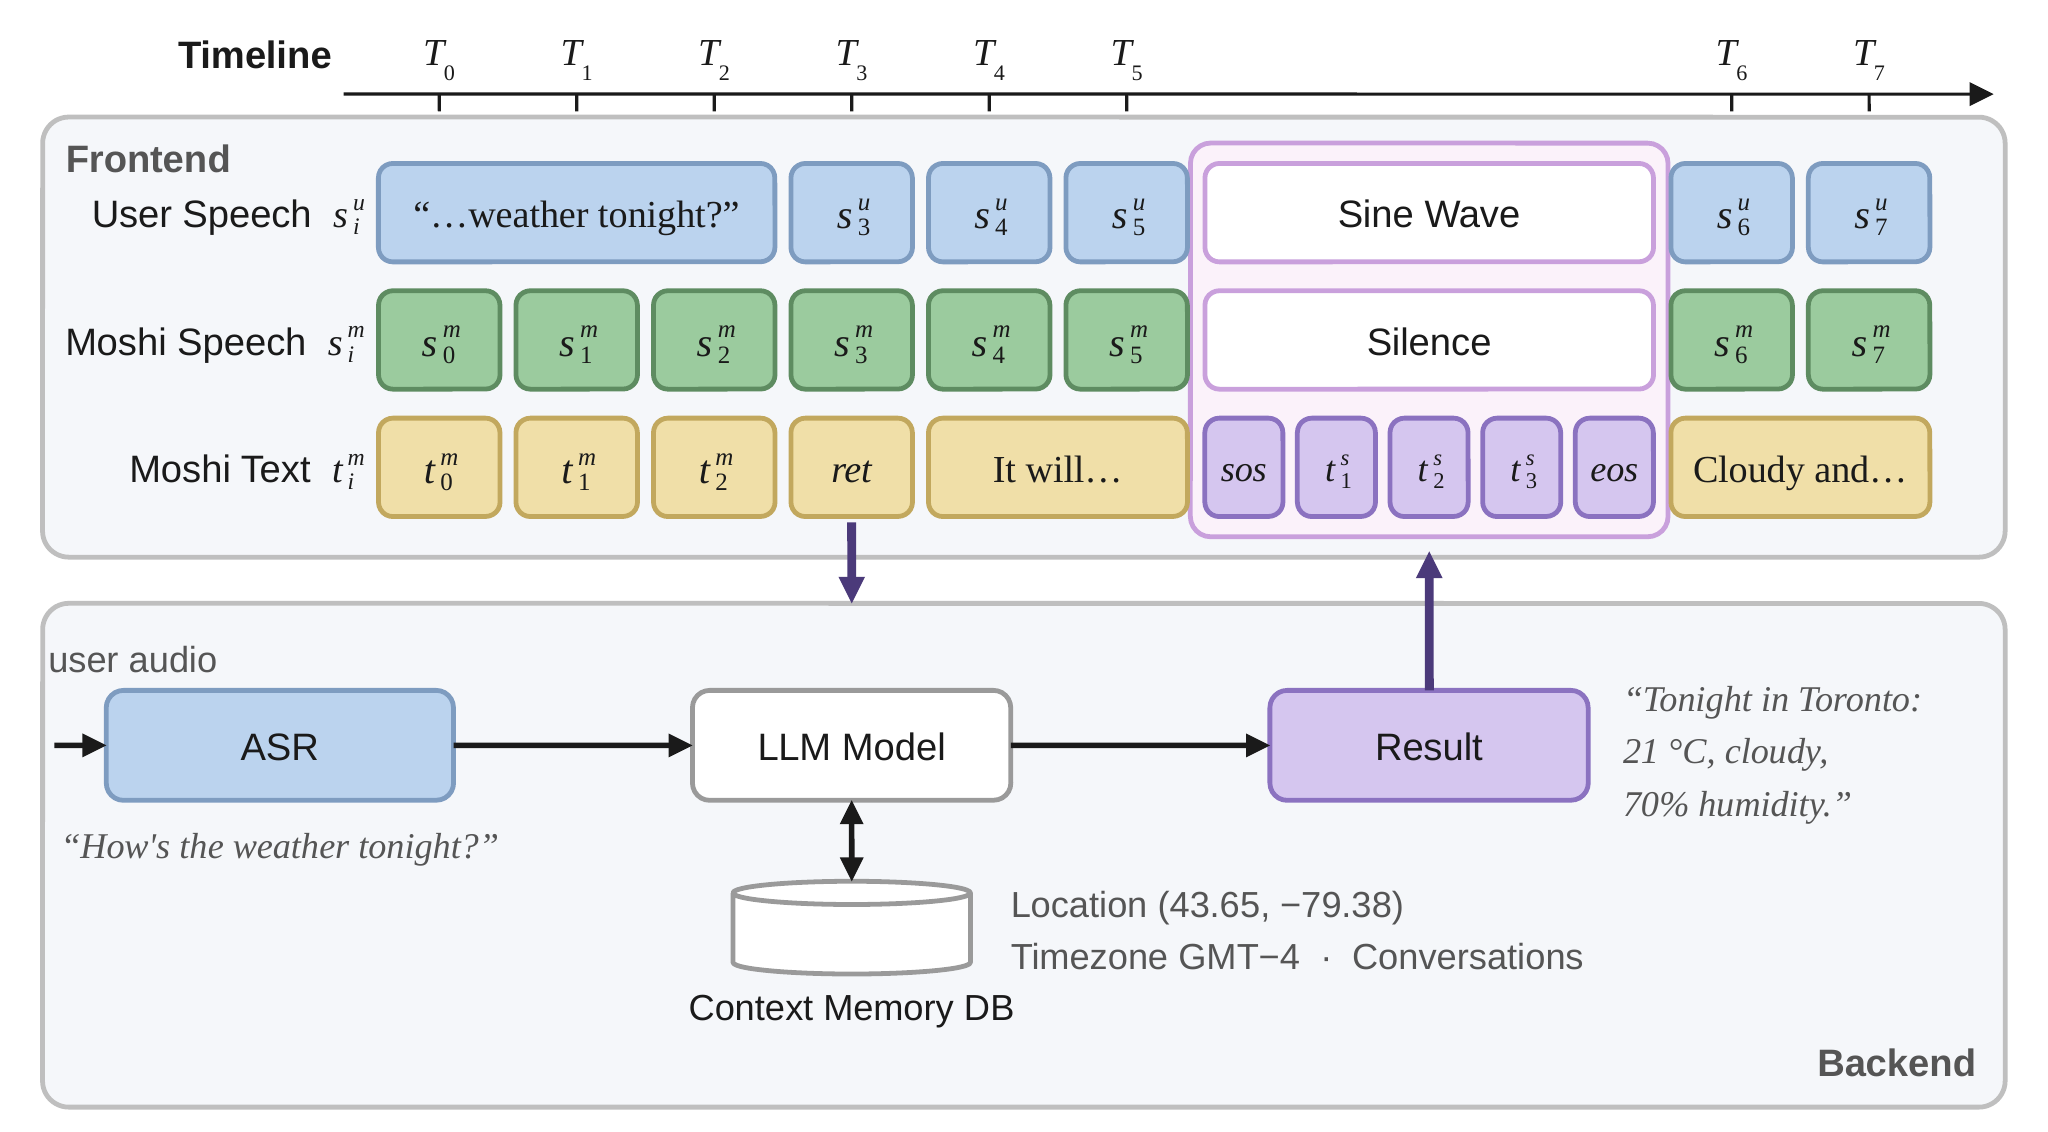
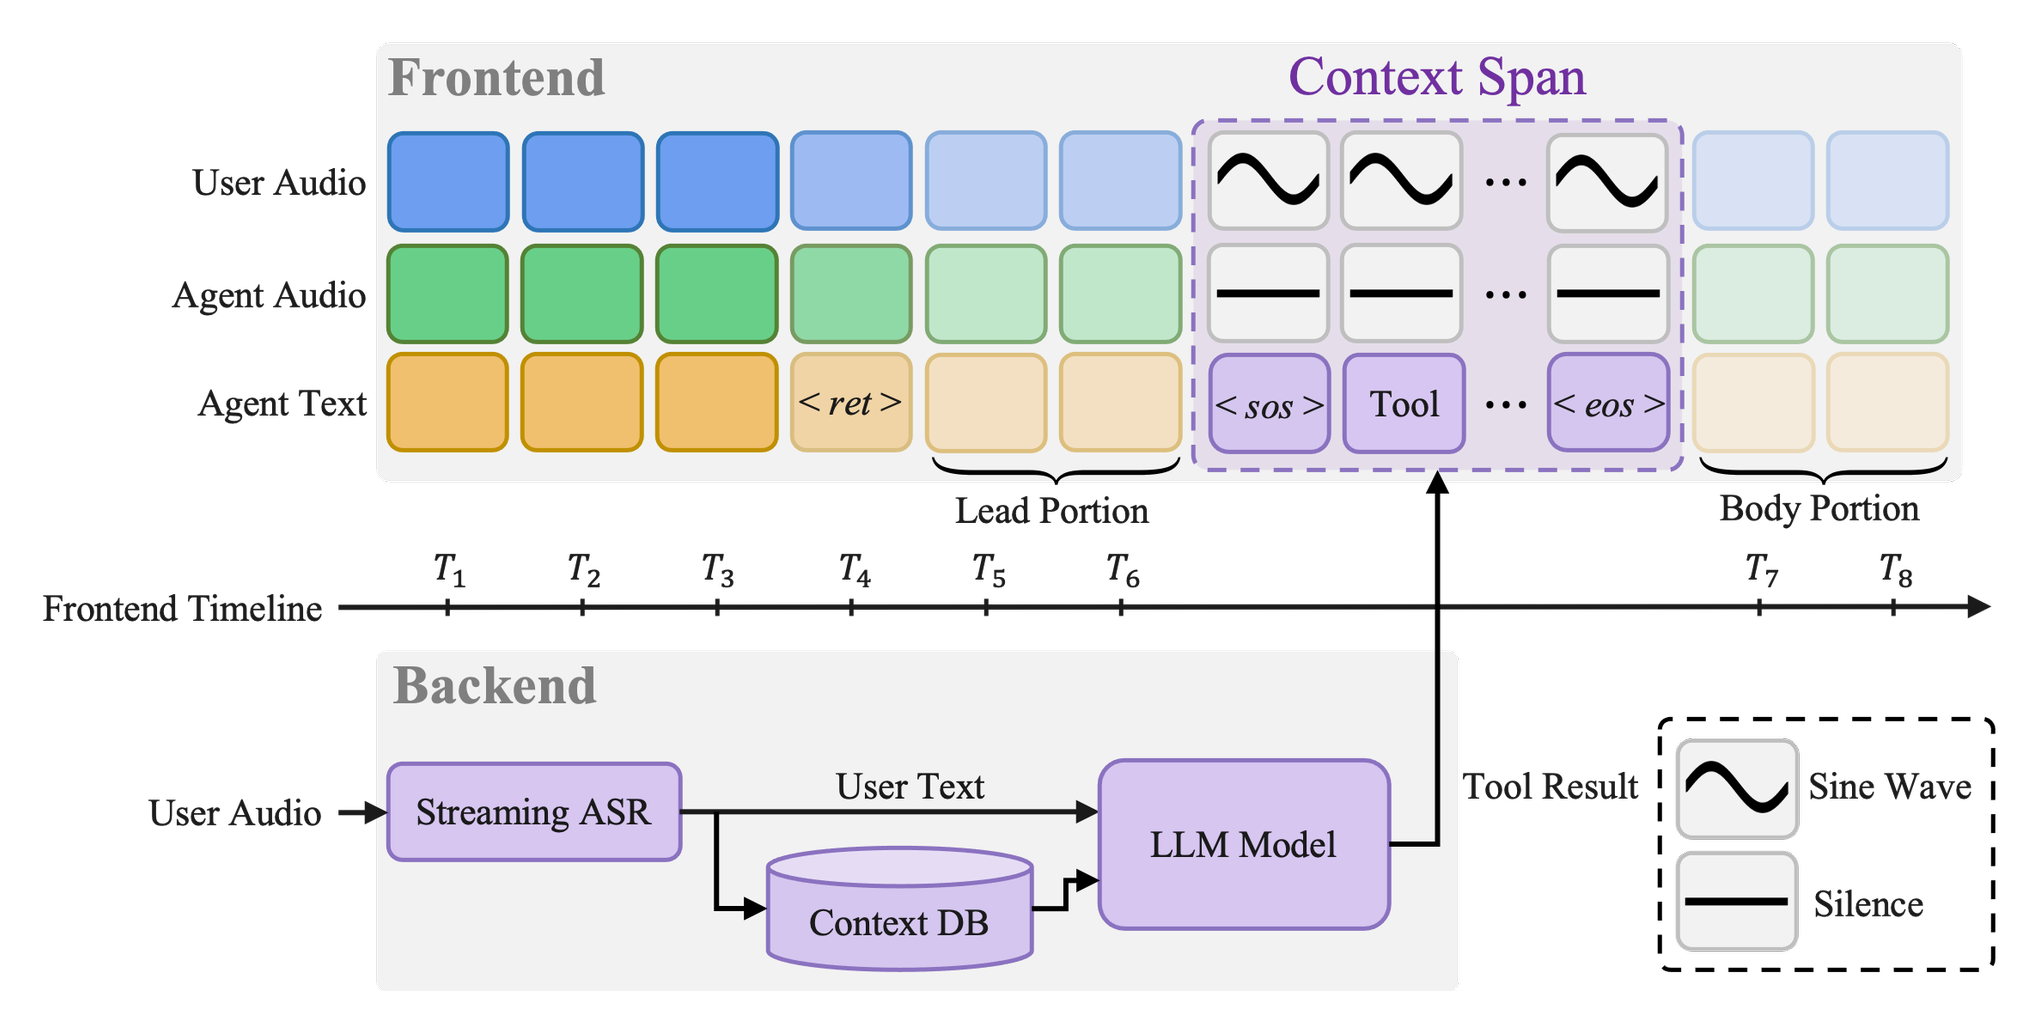
Figures: updated paper figures on a white background
- assets/figures/architecture.png and context_span.png are replaced by the
  current paper figures. Both are composited onto an opaque white background
  (RGB, no alpha), so the black text, arrows and placeholders stay readable on
  GitHub's dark theme, and trimmed to an even 40 px margin.
- The alt text in README.md and docs/MODEL_CARD.md now describes the new
  figures: user audio / agent audio / agent text, Streaming ASR and Context DB
  into the LLM, the tool result written back as a Context Span, lead and body
  portions, and the single KV prefill pass.

diff --git a/README.md b/README.md
@@ -25,7 +25,7 @@
 </div>
 
 <p align="center">
-  <img src="assets/figures/architecture.png" alt="Context Spanning architecture: the full-duplex frontend streams user speech, agent speech and agent text on one timeline; on the ret token the backend runs ASR, an LLM over the Context Memory DB and a tool, and the result is written back into the stream as a Context Span." width="100%">
+  <img src="assets/figures/architecture.png" alt="Context Spanning architecture: the frontend streams user audio, agent audio and agent text on one timeline; after the ret token the agent keeps talking (lead portion) while the backend passes the Streaming ASR user text and the Context DB to an LLM, whose tool result is written back as a Context Span (sine wave on user audio, silence on agent audio, sos … eos on agent text) before the body portion." width="100%">
 </p>
 
 Official PyTorch implementation of **Context Spanning**, a communication framework that lets a
@@ -51,7 +51,7 @@ and strong results on Question Answering tasks, demonstrating its potential.
 ## How it works
 
 <p align="center">
-  <img src="assets/figures/context_span.png" alt="A Context Span on the Moshi token frame: after the ret token the backend's answer is written into the text row between sos and eos, with silence and a sine placeholder in the audio rows, and prefilled in a single KV pass." width="90%">
+  <img src="assets/figures/context_span.png" alt="A Context Span on the token frame: five rows (user acoustic and semantic, agent acoustic and semantic, agent text); after the ret token the span holds sos … eos on the text row, a sine wave on both user rows and silence on both agent rows, and is read in a single KV prefill pass without taking a step index." width="90%">
 </p>
 
 A full-duplex speech model calls an external backend while it keeps listening and talking. When the

diff --git a/docs/MODEL_CARD.md b/docs/MODEL_CARD.md
@@ -39,7 +39,7 @@ questions) returns one reference, and that reference is written into the model's
 (time, weather, prices, distances) instead of a latent summary.
 
 <p align="center">
-  <img src="assets/figures/architecture.png" alt="Context Spanning architecture: the full-duplex frontend streams user speech, agent speech and agent text on one timeline; on the ret token the backend runs ASR, an LLM over the Context Memory DB and a tool, and the result is written back into the stream as a Context Span." width="100%">
+  <img src="assets/figures/architecture.png" alt="Context Spanning architecture: the frontend streams user audio, agent audio and agent text on one timeline; after the ret token the agent keeps talking (lead portion) while the backend passes the Streaming ASR user text and the Context DB to an LLM, whose tool result is written back as a Context Span (sine wave on user audio, silence on agent audio, sos … eos on agent text) before the body portion." width="100%">
 </p>
 
 <!-- assets/figures/architecture.png is uploaded to this model repo together with the card -->
